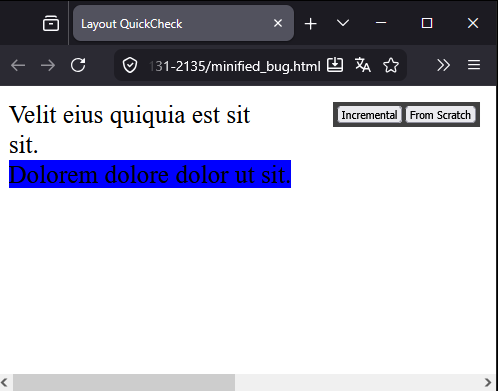
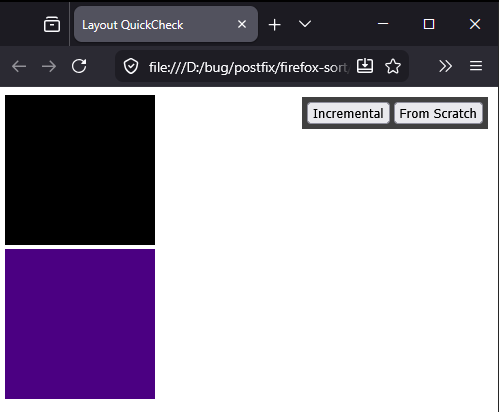
bugs anonymized, example updated and minimization numbers macroed

diff --git a/sec_05_evaluation.tex b/sec_05_evaluation.tex
@@ -146,11 +146,12 @@ Size is measured by the total number of CSS properties
   though similar results would be seen for counting
   elements or modified styles.
 Minimization reduces the style-element volume in generated bugs
-  by approximately 2.7x relative to the original reports.
+  by approximately \StyleElementOriginalToMinimizedFactor{} relative to the
+  original reports.
 Combining minimization with clustering reduces the volume by a further
-  147x relative to minimized reports.
+  \StyleElementMinimizedToClusteredFactor{} relative to minimized reports.
 Together, minimization and clustering produce an approximately
-  385x reduction in style-element volume,
+  \StyleElementOriginalToClusteredFactor{} reduction in style-element volume,
   substantially lowering the review burden for developers using \toolname.
 
 \begin{figure}[!t]
@@ -239,6 +240,16 @@ In a long enough run, we expect that \toolname would generate
 \footnote{Perhaps roughly 80, based on the number of bug groups
   plus the number of singleton bugs at the end of the run.}
 
+\begin{center}
+\fbox{
+\begin{minipage}{0.95\linewidth}
+\textbf{RQ3:} Large variety of bug groups of various sizes establishes
+that \toolname is generating distinct bugs that are triggering unique
+invalidation conditions. 
+\end{minipage}
+}
+\end{center}
+
 Simply grouping bugs is not enough to confirm that the bugs are novel.
 \Cref{tab:rq3-reported-bugs} thus lists \NumBugsNovel{} bugs
   reported by the authors to the Google and Mozilla bug trackers,
@@ -259,22 +270,22 @@ All bugs have been accepted by the developers.
         \toprule
         \textbf{Browser} & \textbf{Bug ID} & \textbf{Brief description} & \textbf{Status} \\
         \midrule
-        Chrome & 1137427 & Repeated white-space application failure & \textcolor{green!50!black}{Fixed} \\
-        Chrome & 1166887 & Dynamic table-caption vertical order swap & \textcolor{green!50!black}{Fixed} \\
-        Chrome & 1189755 & Fixed-position grid layout under-invalidation & \textcolor{green!50!black}{Fixed} \\
-        Chrome & 1189762 & None-to-inline-grid display invalidation & \textcolor{blue}{Open} \\
-        Chrome & 1190220 & Grid layout page crash & \textcolor{green!50!black}{Fixed} \\
-        Chrome & 1219641 & Inline-grid list-item text-indent invalidation & \textcolor{blue}{Open} \\
-        Chrome & 1224721 & Grid layout under-invalidation report & \textcolor{green!50!black}{Fixed} \\
-        Chrome & 1229681 & Grid child display-none invalidation & \textcolor{blue}{Open} \\
+        Chrome & 113XXXX & Repeated white-space application failure & \textcolor{green!50!black}{Fixed} \\
+        Chrome & 116XXXX & Dynamic table-caption vertical order swap & \textcolor{green!50!black}{Fixed} \\
+        Chrome & 118XXXX & Fixed-position grid layout under-invalidation & \textcolor{green!50!black}{Fixed} \\
+        Chrome & 118XXXX & None-to-inline-grid display invalidation & \textcolor{blue}{Open} \\
+        Chrome & 119XXXX & Grid layout page crash & \textcolor{green!50!black}{Fixed} \\
+        Chrome & 121XXXX & Inline-grid list-item text-indent invalidation & \textcolor{blue}{Open} \\
+        Chrome & 122XXXX & Grid layout under-invalidation report & \textcolor{green!50!black}{Fixed} \\
+        Chrome & 122XXXX & Grid child display-none invalidation & \textcolor{blue}{Open} \\
         \midrule
-        Firefox & 1721719 & Table row-group height inconsistency & \textcolor{blue}{Open} \\
-        Firefox & 1724982 & Table min-height overflow discrepancy & \textcolor{blue}{Open} \\
-        Firefox & 1724991 & Dynamic break-spaces invalidation inconsistency & \textcolor{blue}{Open} \\
-        Firefox & 1733276 & Display-inline margin line-wrapping inconsistency & \textcolor{blue}{Open} \\
-        Firefox & 1735376 & Grid table-row height inconsistency & \textcolor{green!50!black}{Fixed} \\
-        Firefox & 1735931 & Percent-sized grid-item height inconsistency & \textcolor{blue}{Open} \\
-        Firefox & 1748891 & Sticky padding scrollport position inconsistency & \textcolor{green!50!black}{Fixed} \\
+        Firefox & 172XXXX & Table row-group height inconsistency & \textcolor{blue}{Open} \\
+        Firefox & 172XXXX & Table min-height overflow discrepancy & \textcolor{blue}{Open} \\
+        Firefox & 172XXXX & Dynamic break-spaces invalidation inconsistency & \textcolor{blue}{Open} \\
+        Firefox & 173XXXX & Display-inline margin line-wrapping inconsistency & \textcolor{blue}{Open} \\
+        Firefox & 173XXXX & Grid table-row height inconsistency & \textcolor{green!50!black}{Fixed} \\
+        Firefox & 173XXXX & Percent-sized grid-item height inconsistency & \textcolor{blue}{Open} \\
+        Firefox & 174XXXX & Sticky padding scrollport position inconsistency & \textcolor{green!50!black}{Fixed} \\
         \bottomrule
     \end{tabular}
 \end{table}
@@ -283,40 +294,41 @@ All bugs have been accepted by the developers.
 
 Three reports illustrate the range of failures found by \toolname.
 
-Chromium issue 40188093 was an under-invalidation bug in which element
+Chromium issue 401XXXX was an under-invalidation bug in which element
   measurements differed after setting a divs display to "grid" and height to "max-content". A Chromium developer
   traced the failure to a \texttt{column-width} interaction that fell back from
   the new grid implementation to the legacy grid-layout path, commenting,
-  ``This will basically be fixed once we move multi-col over.'' The report was
-  later closed as ``Fixed by the new grid fragmentation''
-  ~\cite{chromium40188093}.
+  \textit{``This will basically be fixed once we move multi-col over.''}
+  The report was later closed as
+  \textit{``Fixed by the new grid fragmentation.''}
 
-Firefox bug 1733276 changes a margin-bearing element to
+Firefox bug 173XXXX changes a margin-bearing element to
   \texttt{display:inline}, after which incremental and full layout wrap the
   same text differently. A Mozilla developer confirmed that 
-  ``the discrepancy is clearly a bug'' and explained the issue is 
+  \textit{``the discrepancy is clearly a bug''} and explained the issue is 
   caused by failing to reflow sufficiently in response to
   the style change. The minimized test case also contained a mismatched
   \texttt{</span>} tag whose resulting whitespace was necessary to reproduce
   the failure.  Triggering a full reflow by zooming
-  makes the layouts agree, but no fix has landed and the report remains open
-  ~\cite{mozilla1733276}.
+  makes the layouts agree, fix pending.
 
-Chromium issue 40174062 was able to cause a crash in the LayoutNG grid
+Chromium issue 401XXXX was able to cause a crash in the LayoutNG grid
   implementation, triggered when a fixed-position element was added as a child
   of a grid. A Chromium tester confirmed being able to reproduce the issue
   across macOS, Linux, and Windows. Developers fixed an incorrect assumption
   that a grid container was always the containing block for its out-of-flow
   children, added regression tests, and verified that the crash no longer
-  occurred~\cite{chromium40174062}.
+  occurred.
 
 \begin{center}
 \fbox{
 \begin{minipage}{0.95\linewidth}
-\textbf{RQ3:} \toolname finds
+\textbf{Real World Impacts:} \toolname finds
   a substantial diversity of under-invalidation bugs,
   including \NumBugsNovel{} confirmed bugs,
-  of which \NumBugsFixed{} have been fixed.
+  of which \NumBugsFixed{} have been fixed. Mozilla also \textbf{integrated \toolname into Grizzly}, its internal
+  fuzzing workflow, so that similar bugs can be detected before reaching a
+  user-visible release~\cite{grizzly}.
 \end{minipage}
 }
 \end{center}

diff --git a/fig_oracle_example.tex b/fig_oracle_example.tex
@@ -1,6 +1,6 @@
-\begin{figure*}[t]
+\begin{figure}[t]
   \centering
-  \resizebox{\textwidth}{!}{%
+  \resizebox{\columnwidth}{!}{%
   \begin{tikzpicture}[
       font=\small,
       screenshot/.style={
@@ -40,7 +40,7 @@
     \node[screenshot] (incremental) at (5.7,1.9) {
       \includegraphics[width=42mm]{figures/inc-page.png}
     };
-    \node[screenshot] (scratch) at (5.7,-2.0) {
+    \node[screenshot] (scratch) at (5.7,-2.5) {
       \includegraphics[width=42mm]{figures/fresh-page.png}
     };
 
@@ -107,4 +107,4 @@
     the changed page from scratch. Different resulting layouts indicate an
     under-invalidation bug.}
   \label{fig:oracle-example}
-\end{figure*}
+\end{figure}

diff --git a/figures/tab_reproducible_bug_components.tex b/figures/tab_reproducible_bug_components.tex
@@ -9,25 +9,25 @@
     \toprule
     Case & HTML tree & Initial styles & Style mutation \\
     \midrule
-    166194 &
+    166XXXX &
     \texttt{div > (text + div > div > text) + div} &
     \texttt{outer, inner, after: clear:both; action, text: float:left; middle: display:none; margin-bottom:10em} &
     \texttt{middle.display = inline-block} \\
     \midrule
 
-    648383 &
+    648XXXX &
     \texttt{div + div + div > div} &
     \texttt{first, resizeMe, third: float:left; resizeMe: width:100\%} &
     \texttt{resizeMe.height = 100px} \\
     \midrule
 
-    1733276-2 &
+    173XXXX-2 &
     \texttt{div > (text + div)} &
     \texttt{container: width:100px; test: display:none; margin-left:150px} &
     \texttt{test.display = inline} \\
     \midrule
 
-    1733276-3 &
+    173XXXX-3 &
     \texttt{div > (text + div)} &
     \texttt{container: width:100px; test: display:none; padding-left:150px} &
     \texttt{test.display = inline} \\

diff --git a/sec_01_intro.tex b/sec_01_intro.tex
@@ -48,8 +48,7 @@ Updating exactly the right set of fields requires
   reasoning about transitive dependencies between layout algorithms,
   reasoning that is difficult enough that public bug trackers
   for Chrome, Firefox, and Safari's layout engines
-  contain numerous under-invalidation bugs%
-  ~\cite{chromium497183437,chromium379886422,mozilla1452426,mozilla539356,webkit233421,webkit97801}.
+  contain numerous under-invalidation bugs.
 Modern invalidation algorithms like LayoutNG~\cite{kilpatrick2021layoutng}
   are purposefully designed to reduce the risk of under-invalidation,
   while some promising algorithms~\cite{mozilla2006reflow}
@@ -74,11 +73,12 @@ We demonstrate that \toolname is effective at
   both rapidly finding under-invalidation bugs
   (\NumBugsChromeWeights in Chrome and \NumBugsFfxWeights in Firefox)
   and minimizing and clustering them,
-  reducing the style-element review volume by approximately 385x.
+  reducing the style-element review volume by approximately
+  \StyleElementOriginalToClusteredFactor{}.
 \NumBugsNovel bugs found by \toolname
   were reported to Chrome and Firefox,
   all accepted by developers and \NumBugsFixed already fixed.
-\toolname is now used as part of Mozilla's fuzzing workflow
+\textbf{\toolname is now used as part of Mozilla's fuzzing workflow}
   to find under-invalidation bugs during development.
 
 This paper makes the following contributions:

diff --git a/data.tex b/data.tex
@@ -4,9 +4,12 @@
 \newcommand{\VolumenMin}{an average of 66.1 lines }
 \newcommand{\VolumeMinClust}{an average of 22.9 lines }
 \newcommand{\RuntimePercentMinClust}{14.16\%}
-\newcommand{\StyleElementOriginalToMinimizedReduction}{62.60\%}
+\newcommand{\StyleElementOriginalToMinimizedReduction}{99.34\%}
 \newcommand{\StyleElementOriginalToClusteredReduction}{99.74\%}
-\newcommand{\StyleElementMinimizedToClusteredReduction}{99.32\%}
+\newcommand{\StyleElementMinimizedToClusteredReduction}{61.32\%}
+\newcommand{\StyleElementOriginalToMinimizedFactor}{151x}
+\newcommand{\StyleElementMinimizedToClusteredFactor}{2.6x}
+\newcommand{\StyleElementOriginalToClusteredFactor}{391x}
 \newcommand{\MozillaBugs}{7 }
 \newcommand{\NumBugsNovel}{15 }
 \newcommand{\NumBugsFixed}{7 }

diff --git a/sec_00_abstract.tex b/sec_00_abstract.tex
@@ -26,8 +26,10 @@
     finding dozens of bug candidates in each browsers
     (\NumBugsChromeWeights in Chrome and \NumBugsFfxWeights in Firefox).
   Furthermore, \toolname's bug minimization and clustering passes
-    reduce the style-element volume by approximately 2.7x
-    through minimization and 385x overall after clustering,
+    reduce the style-element volume by approximately
+    \StyleElementOriginalToMinimizedFactor{}
+    through minimization and \StyleElementOriginalToClusteredFactor{} overall
+    after clustering,
     all while requiring only \RuntimePercentMinClust\ of the runtime.
   Finally, we show that \toolname finds
     \NumBugsNovel novel bugs, across both browsers,

diff --git a/sec_02_background.tex b/sec_02_background.tex
@@ -74,7 +74,8 @@ For example, the browser might recompute
   its size and position, causing it to appear in the wrong location.
 Under-invalidation bugs often require
   a specific constellation of HTML, CSS, and JavaScript code to appear.
-For example, Chrome bug \#40724799,
+For example, Chrome bug \#407XXXX,\footnote{Bug identifiers are anonymized
+  for review and will be deanonymized after the review process.}
   found with \toolname and since fixed by the Chrome developers,
   occurred required three nested elements,
   with the outermost having a \texttt{vertical-lr} writing style

diff --git a/fig_oracle_workflow.tex b/fig_oracle_workflow.tex
@@ -54,7 +54,7 @@
       (incremental-layout) at (5.7,1.9)
       {\hspace{8mm}Incremental layout};
     \node[flow, minimum width=34mm, minimum height=18mm]
-      (scratch-layout) at (5.7,-2.0)
+      (scratch-layout) at (5.7,-2.5)
       {\hspace{8mm}From-scratch layout};
 
     \node[

diff --git a/sec_03_challenges.tex b/sec_03_challenges.tex
@@ -63,7 +63,6 @@ Any difference indicates an under-invalidation bug.
 This approach compares browser rendering engine against itself,
   avoiding all sources of cross-browser and cross-version differences.
 
-\input{fig_oracle_workflow}
 \input{fig_oracle_example}
 
 \subsection{Challenge 2: Triggering Under-Invalidation Behavior}